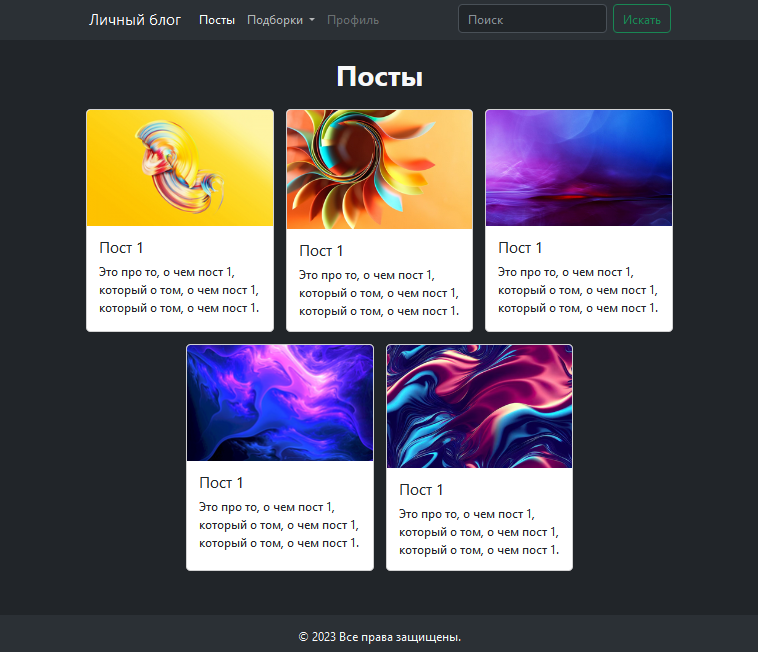
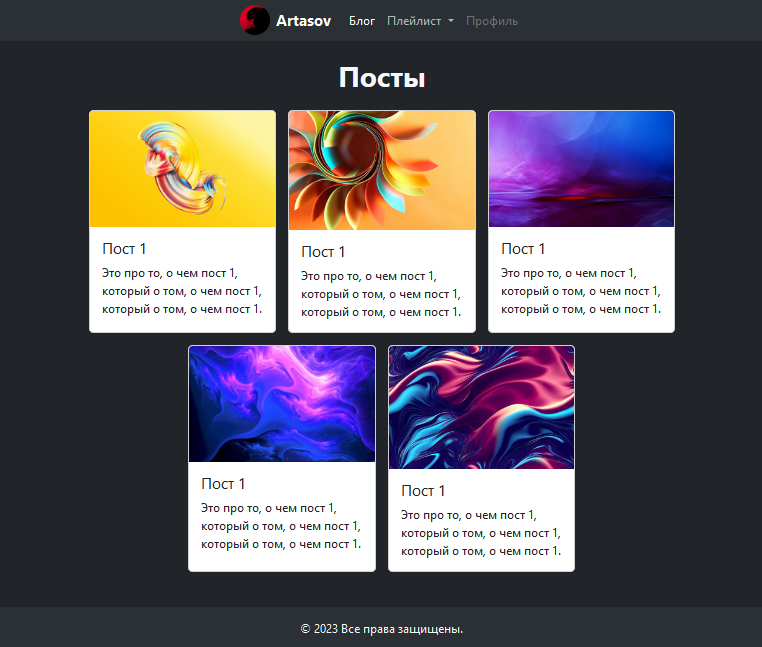
process

diff --git a/lessons/lesson-5/index.html b/lessons/lesson-5/index.html
@@ -1,6 +1,7 @@
 <!DOCTYPE html>
 <html lang="ru">
 <head>
+    <meta charset="utf-8">
     <link type="text/css" rel="stylesheet"
           href="https://cdn.jsdelivr.net/npm/bootstrap@5.3.0-alpha3/dist/css/bootstrap.min.css"/>
     <title>HTML, CSS and JavaScript demo</title>
@@ -8,23 +9,25 @@
 <body class="bg-dark d-flex flex-column" style="min-height: 100vh;">
 <header>
     <nav class="navbar navbar-expand-lg bg-body-tertiary" data-bs-theme="dark">
-        <div class="container-fluid" style="max-width: 800px">
-            <a class="navbar-brand" href="#">Личный блог</a>
+        <div class="container-fluid justify-content-center" style="max-width: 800px">
+            <img src="https://github.com/Artasov/resources/blob/main/ava-dark.jpg?raw=true"
+                 alt="Logo" width="40" height="40" class="d-inline-block rounded-circle">
+            <a class="ms-2 navbar-brand fw-bold" href="#">Artasov</a>
             <button class="navbar-toggler" type="button" data-bs-toggle="collapse"
                     data-bs-target="#navbarSupportedContent" aria-controls="navbarSupportedContent"
                     aria-expanded="false" aria-label="Toggle navigation">
                 <span class="navbar-toggler-icon"></span>
             </button>
 
-            <div class="collapse navbar-collapse" id="navbarSupportedContent">
-                <ul class="navbar-nav me-auto mb-2 mb-lg-0">
+            <div class="collapse navbar-collapse flex-grow-0" id="navbarSupportedContent">
+                <ul class="navbar-nav mb-2 mb-lg-0">
                     <li class="nav-item">
-                        <a class="nav-link active" aria-current="page" href="#">Посты</a>
+                        <a class="nav-link active" aria-current="page" href="#">Блог</a>
                     </li>
                     <li class="nav-item dropdown">
                         <a class="nav-link dropdown-toggle" href="#" role="button" data-bs-toggle="dropdown"
                            aria-expanded="false">
-                            Подборки
+                            Плейлист
                         </a>
                         <ul class="dropdown-menu">
                             <li><a class="dropdown-item" href="#"></a></li>
@@ -39,10 +42,6 @@
                         <a class="nav-link disabled" aria-disabled="true">Профиль</a>
                     </li>
                 </ul>
-                <form class="d-flex m-0" role="search">
-                    <input class="form-control me-2 my-auto" type="search" placeholder="Поиск" aria-label="Search">
-                    <button class="btn btn-outline-success" type="submit">Искать</button>
-                </form>
             </div>
         </div>
     </nav>

diff --git a/lessons/lesson-6/index.html b/lessons/lesson-6/index.html
@@ -12,7 +12,7 @@
 <header>
     <nav class="navbar navbar-expand-lg bg-body-tertiary" data-bs-theme="dark">
         <div class="container-fluid justify-content-center" style="max-width: 800px">
-            <img src="https://github.com/Artasov/resources/blob/main/ava-dark.jpg?raw=true" 
+            <img src="https://github.com/Artasov/resources/blob/main/ava-dark.jpg?raw=true"
                  alt="Logo" width="40" height="40" class="d-inline-block rounded-circle">
             <a class="ms-2 navbar-brand fw-bold" href="#">Artasov</a>
             <button class="navbar-toggler" type="button" data-bs-toggle="collapse"
@@ -24,12 +24,12 @@
             <div class="collapse navbar-collapse flex-grow-0" id="navbarSupportedContent">
                 <ul class="navbar-nav mb-2 mb-lg-0">
                     <li class="nav-item">
-                        <a class="nav-link active" aria-current="page" href="#">Новое</a>
+                        <a class="nav-link active" aria-current="page" href="#">Блог</a>
                     </li>
                     <li class="nav-item dropdown">
                         <a class="nav-link dropdown-toggle" href="#" role="button" data-bs-toggle="dropdown"
                            aria-expanded="false">
-                            Подборки
+                            Плейлист
                         </a>
                         <ul class="dropdown-menu">
                             <li><a class="dropdown-item" href="#"></a></li>

diff --git a/lessons/lesson-6/tutorial.md b/lessons/lesson-6/tutorial.md
@@ -1,7 +1,104 @@
-# 
+# Создание личного плейлиста
+
+В данной методичке, мы создадим новое приложение, где пользователь сможет собрать свой личный плейлист видео.
+>Можете если хотите показать что примерно мы будем делать.<br><br>
+![result.png](imgs/result.png)
 
 
+1. **Сначала давайте создадим новое приложение.**
 
-## 
+   `python manage.py startapp playlist`
 
-1. 
+2. **Показываем как можно встроить видео с YouTube.**
+   1. **Открываем видео, нажимаем поделиться.**<br>
+      ![result.png](imgs/resend.png) <br><br>
+   
+   2. **Нажимаем встроить.**<br>
+      ![result.png](imgs/insert.png)<br><br>
+   
+   3. **Объясняем, что такое `iframe`, и что нужно будет хранить в базе данных только `embed code`.**<br><br>
+      ![result.png](imgs/iframe.png) <br><br>
+
+3. **Создадим модель `Video`, где будет храниться название видео и ссылка для его встраивания в `iframe`.**
+   ```python
+   # playlist/models.py
+   from django.db import models
+   
+   class Video(models.Model):
+       title = models.CharField(max_length=200)
+       embed_code = models.TextField()
+       created_at = models.DateTimeField(auto_now_add=True)
+   
+       def __str__(self):
+           return self.title
+   ```
+4. **Мигрируем модель в db**
+  
+   `python manage.py makemigrations`
+  
+   `python manage.py migrate`<br><br>
+ 
+5. **Зарегистрируем модель в `admin.py` для управления через административную панель.**
+   ```python
+   # playlist/admin.py
+   from django.contrib import admin
+   from .models import Video
+   
+   admin.site.register(Video)
+   ```
+6. **Создадим представление, которое будет отображать все видео из плейлиста.**
+   ```python
+   # playlist/views.py
+   from django.shortcuts import render
+   from .models import Video
+   
+   def video_list(request):
+       videos = Video.objects.all()
+       return render(request, 'playlist/video_list.html', {'videos': videos})
+   ```
+7. **Свяжем `video_list()` с адресом `playlist/video_list/`.**
+   ```python
+   # project_name/urls.py
+   from django.urls import path
+   from . import views
+   
+   urlpatterns = [
+       path('playlist/video_list/', views.video_list, name='video_list'),
+   ]
+   ```
+
+   
+   
+8. **Создадим шаблон для отображения видео используя `iframe` и `циклы`. Используем Bootstrap. 
+Обращаем внимание, что часть кода (*header, footer*) будет дублироваться. 
+Применим `include` для `повторного использования` header и footer.**
+   > Создайте в папке с шаблонами новую папку `includes` 
+   > и поместите туда файлы `header.html` и `footer.html`. 
+   > В эти файлы поместим код header'а и footer'а соответственно.
+   ```html
+   <!-- playlist/templates/playlist/video_list.html -->
+   {% include 'playlist/includes/header.html' %}
+   <main>
+       {% for video in videos %}
+           <div class="card rounded-top-3 border-5 border-secondary bg-dark" 
+                style="width: 275px;">
+               <iframe class="rounded-top-3"
+                       src="https://www.youtube.com/embed/{{ video.embed_code }}" 
+                       frameborder="0" 
+                       allow="accelerometer; autoplay; clipboard-write; encrypted-media; gyroscope; picture-in-picture; web-share" allowfullscreen></iframe>
+               <div class="card-body">
+                   <h5 class="card-title text-light">{{ video.title }}</h5>
+                   <p class="card-text text-secondary">{{ video.created_at }}</p>
+               </div>
+           </div>
+       {% endfor %}
+   </main>
+   {% include 'playlist/includes/footer.html' %}
+   ```
+   > Обращаем внимание, что мы храним в бд только часть ссылки (`embed_code`), 
+   > вместо всей ссылки или всего iframe.
+
+
+Все готово!
+
+># git push...

diff --git a/lessons/lesson-4/tutorial.md b/lessons/lesson-4/tutorial.md
@@ -1,5 +1,5 @@
 # Введение в БД и административную панель Django
-Будем начинать мини-проект 'Личный блог'
+Будем начинать мини-проект 'Блог'
 
 ## Начало
 1. Создание нового приложения blog
@@ -27,7 +27,7 @@
 4. Установим расширение `SQLite Viewer` в VS Code.
 5. Показываем, что произошло внутри базы данных.
 6. Объясните, зачем нужна административная панель, и как она облегчает управление данными.
-7. Подключите административную панель Django.
+7. Зарегистрируем модель в `admin.py` для управления через административную панель.
    ```python
    # blog/admin.py
    from django.contrib import admin
@@ -38,6 +38,9 @@
        list_display = ('title', 'text')
    ```
 8. Создайте staff пользователя и откройте административную панель.
+   
+   `python manage.py createsuperuser`
+
 9. Создайте объекты постов через административную панель, чтобы убедиться, что ваша <br>
    модель функционирует.
 10. Постепенно добавляйте новые поля и связи между моделями, повторяя процесс миграции, <br>
@@ -45,20 +48,59 @@
 11. Доделываем до такого вида, постепенно обновляя уже созданные объекты.
     ```python
     class Post(models.Model):
-    title = models.CharField(max_length=70)
+        title = models.CharField(max_length=70)
+        text = models.TextField()
+        likes = models.IntegerField(blank=True)
+        rating = models.FloatField(blank=True)
+        image = models.ImageField(upload_to='images/')
+        is_published = models.BooleanField(default=True)
+        created_at = models.DateTimeField(auto_now_add=True)
+        
+        class Meta:
+            verbose_name = 'Пост'
+            verbose_name_plural = 'Посты'
+    
+        def __str__(self):
+            return self.title
+    ```
+12. Рассказываем, что для корректного использования медиафайлов(картинок через imagefield),<br>
+    нужно определить определить адреса для этих медиафайлов.
+13. Отредактируем `settings.py` и `корневые urlpatterns`
+    ```python
+    # project_name/settings.py
+    ...
+    # адрес по которому будут доступные media.
+    MEDIA_URL = '/media/'
+    # локальный адрес хранения media.
+    MEDIA_ROOT = os.path.join(BASE_DIR, 'media')
+    ...
+    ```
+    ```python
+    # project_name/urls.py
+    urlpatterns = [
+        ...,
+        ...,
+        ...,
+    ]
+    #  На сервере media обслуживает серверная служба, 
+    #  а не django, поэтому только при debug мы включаем 
+    #  обслуживание на стороне django, добавляя адреса media.
+    if settings.DEBUG:
+        urlpatterns += static(settings.MEDIA_URL, document_root=settings.MEDIA_ROOT)
+    ```
+#### Если осталось время обьясните, что такое <br> связи в базах данных и сделайте модель Comment, <br> которая будет ссылаться на пост. Отобразите ее в админке.
+```python
+class Comment(models.Model):
+    post = models.ForeignKey(Post, on_delete=models.CASCADE)
     text = models.TextField()
-    likes = models.IntegerField(blank=True)
-    rating = models.FloatField(blank=True)
-    image = models.ImageField(upload_to='images/')
-    is_published = models.BooleanField(default=True)
     created_at = models.DateTimeField(auto_now_add=True)
     
     class Meta:
-        verbose_name = 'Пост'
-        verbose_name_plural = 'Посты'
+        verbose_name = 'Комментарий'
+        verbose_name_plural = 'Комментарии'
 
     def __str__(self):
-        return self.title
-    ```
+        return self.post.title
+```
 
 ># git push...

diff --git a/lessons/lesson-5/tutorial.md b/lessons/lesson-5/tutorial.md
@@ -1,6 +1,6 @@
 # ORM, for, if в шаблонах
 
-### Продолжаем 'Личный блог'.<br>
+### Продолжаем 'Блог'.<br>
 >Можете если хотите показать что примерно мы будем делать.<br><br>
 ![result.png](imgs/result.png)
 ## Header, Footer и карточка товара.
@@ -27,8 +27,19 @@
    **[карточку](https://getbootstrap.com/docs/5.3/components/card/#images)**
    для поста.
    Лучше брать без кнопки карточку и сделать её потом ссылкой.
-   > Лучше взять карточку без кнопки. Не забываем подключить `bootstrap.min.css`, как делали на прошлых уроках.
+   > Лучше взять карточку без кнопки. Не забываем подключить `bootstrap.min.css`, 
+   > как делали на прошлых уроках.
+   > ```html
+   > {% load static %}
+   > <head>
+   >     <link rel="stylesheet" href="{% static 'app1/css/bootstrap.min.css' %}"> 
+   > </head>
+   >```
+   
+   > Шапку делаем не под `Блог`, а под все приложение. 
+   > То есть в дальнейшем мы будем эту шапку использовать в других местах сайта.
    ```html
+   <!-- blog/posts_list.html -->
    <header>
        <nav class="navbar navbar-expand-lg bg-body-tertiary">
            ...
@@ -62,6 +73,8 @@
    
 4. Рассказываем как отобразить этот 1 пост.
    ```html
+   <!-- blog/posts_list.html -->
+   ...
    <div class="card" style="width: 250px;">
        <img src="..." class="card-img-top" alt="...">
        <div class="card-body">
@@ -69,6 +82,7 @@
            <p class="card-text">{{ post.text }}</p>
        </div>
    </div>
+   ...
    ```
 5. Пусть сами попробуют по примеру в шпаргалке <br>
    [Использование условий и циклов](https://github.com/Artasov/itcompot-methods/blob/main/django-base.md#%D0%B8%D1%81%D0%BF%D0%BE%D0%BB%D1%8C%D0%B7%D0%BE%D0%B2%D0%B0%D0%BD%D0%B8%D0%B5-%D1%86%D0%B8%D0%BA%D0%BB%D0%BE%D0%B2-%D0%B8-%D1%83%D1%81%D0%BB%D0%BE%D0%B2%D0%B8%D0%B9-%D0%B2-%D1%88%D0%B0%D0%B1%D0%BB%D0%BE%D0%BD%D0%B5)
@@ -83,6 +97,7 @@
        return render(request, 'blog/posts_list.html', {'posts': posts})
    ```
    ```html
+   <!-- blog/posts_list.html -->
    <main>
        <h1 class="text-light text-center fw-bold">Посты</h1>
        <div class="posts_container d-flex gap-3 flex-wrap justify-content-center mx-auto" 
@@ -102,6 +117,7 @@
 6. Пусть ученики добавят проверку доступности поста по той же шпаргалке.
    Тогда будут отображаться только опубликованные посты.
    ```html
+   <!-- blog/posts_list.html -->
    <main>
        <h1 class="text-light text-center fw-bold">Посты</h1>
        <div class="posts_container d-flex gap-3 flex-wrap justify-content-center mx-auto" 
